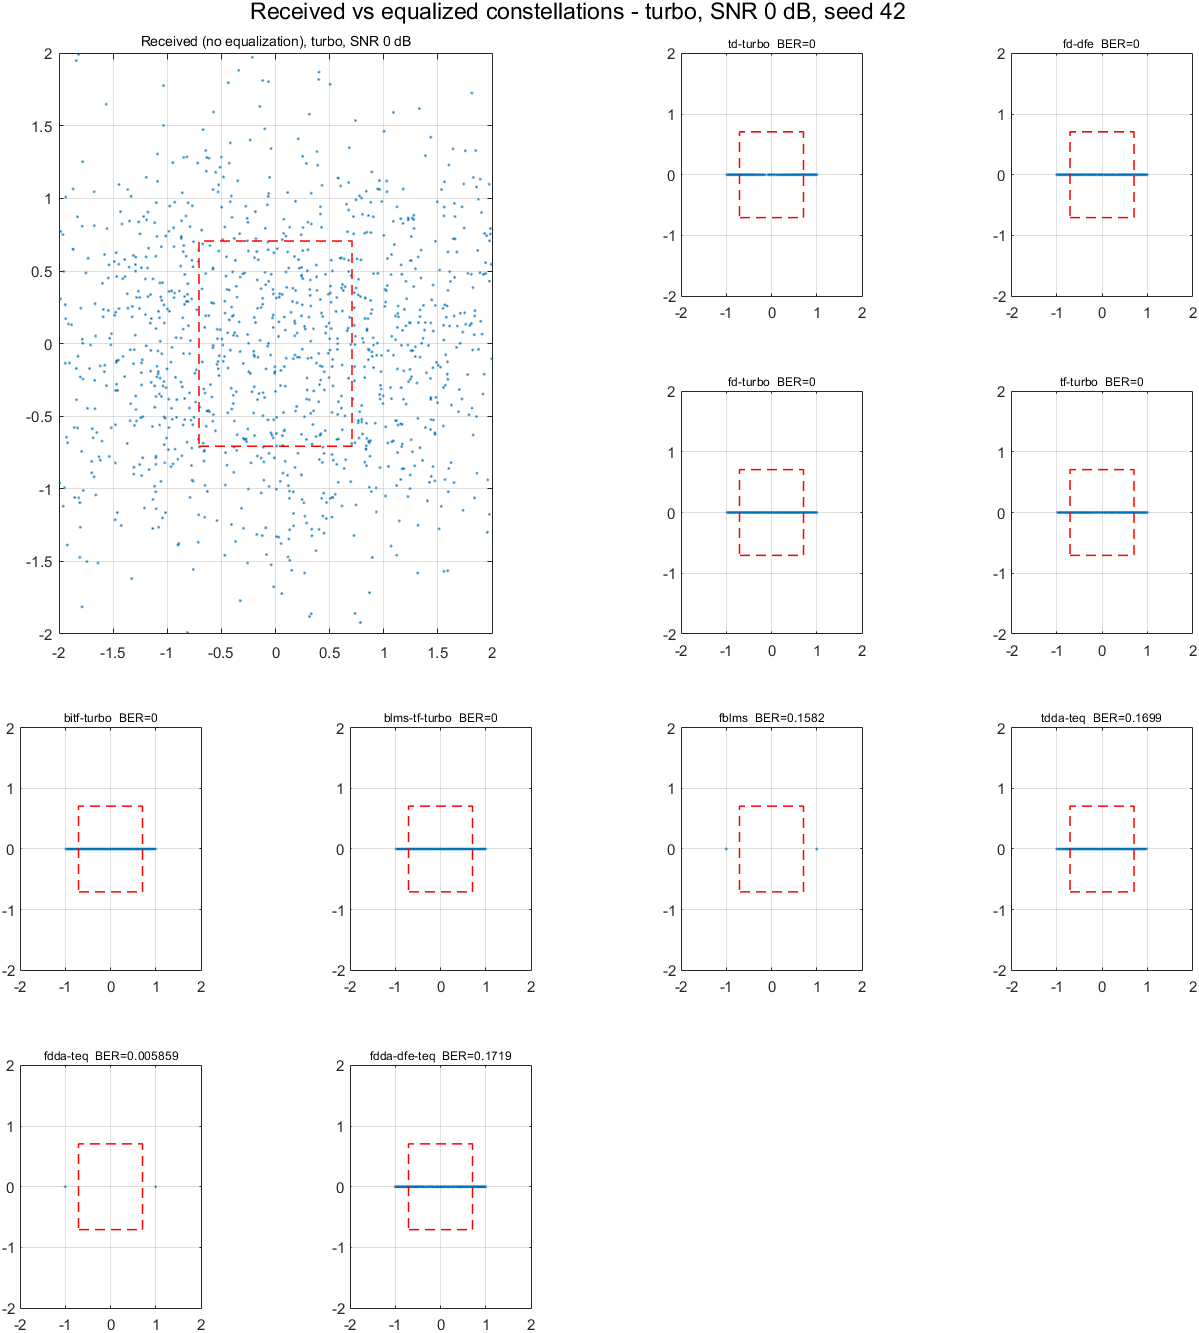
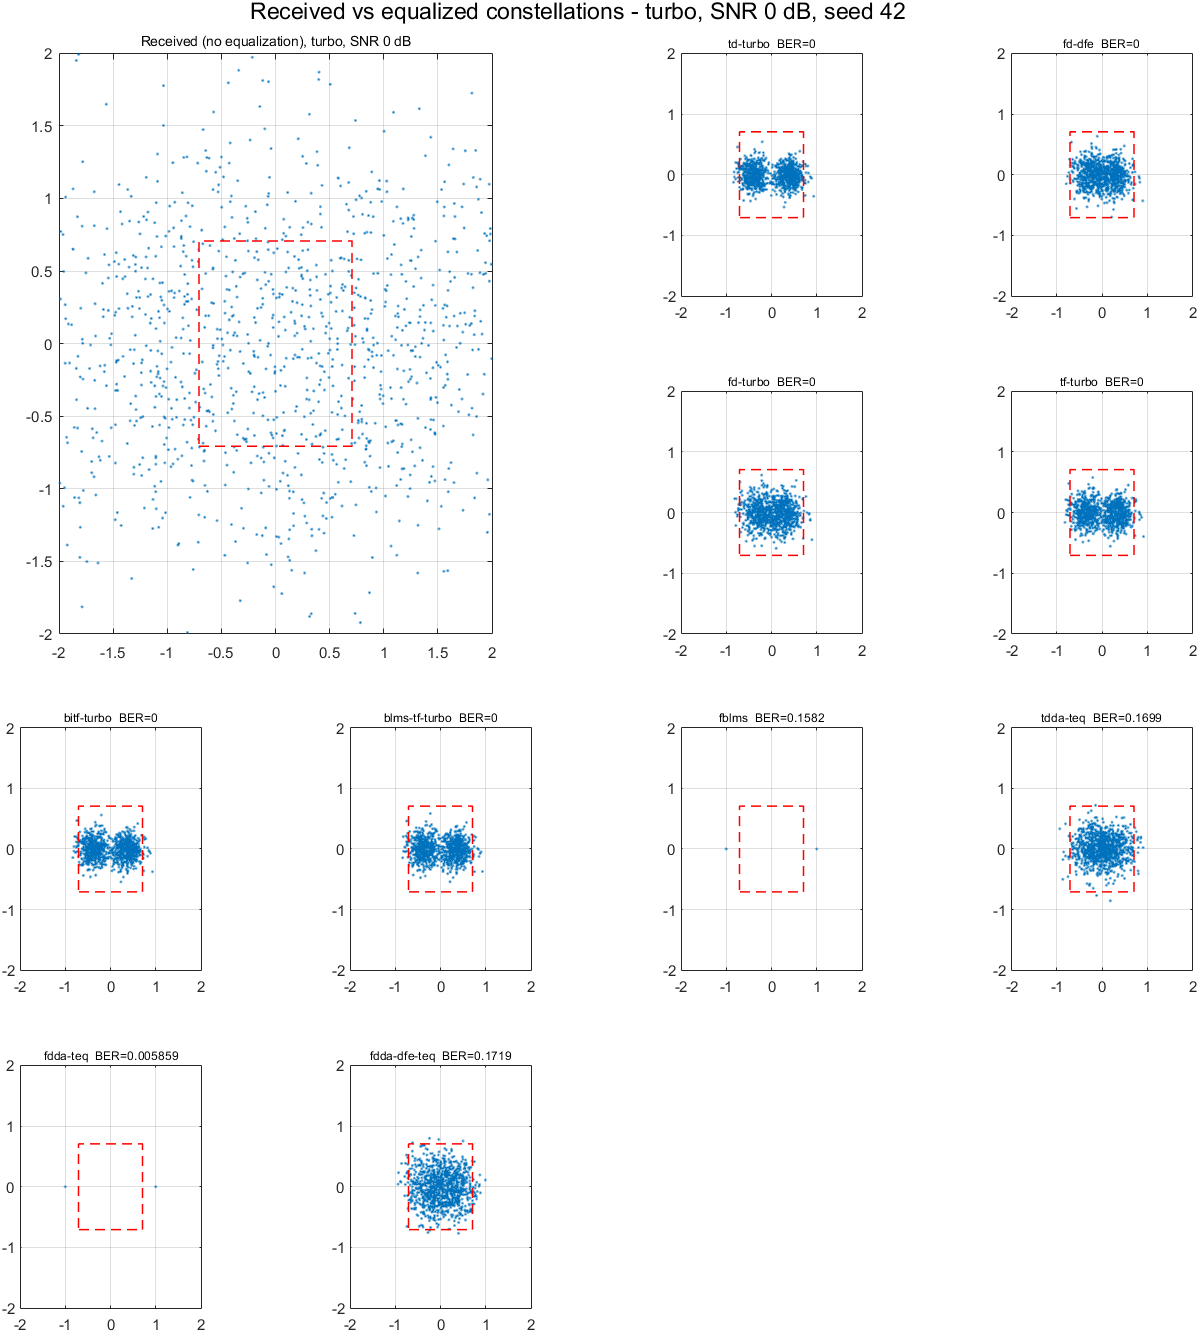
fix: turbo equalized constellations are 2D again
- The six turbo kernels now record the COMPLEX equalizer output of
  every iteration (trace.softEstimates, full frame); the comparison
  plot uses the data segment of the last iteration for the turbo
  scenario, so the BPSK constellation shows the real 2D two-cluster
  cloud instead of the collapsed horizontal line that came from the
  real-valued LLR (2*real(estimate)/nv).

Regression: 61/61 unit tests.

diff --git a/papers/engineering_simulation/plot_equalizer_outputs.m b/papers/engineering_simulation/plot_equalizer_outputs.m
@@ -108,13 +108,14 @@ for k = 1:nMethods
             out = result.outputs{k}(:).';
         elseif isHard(out)
             % Hard-decision estimates (turbo decoders report decisions):
-            % fall back to the decoder soft LLR of the last iteration
-            % when available so the soft constellation is visible.
+            % use the COMPLEX equalizer output of the last iteration
+            % (softEstimates, data segment) so the 2D constellation is
+            % visible instead of the real-valued LLR line.
             if strcmpi(scenario, "turbo") && isfield(result, "traces") && ...
                     numel(result.traces) >= k && ...
-                    isfield(result.traces{k}, "equalizerLlr")
-                llr = result.traces{k}.equalizerLlr(end, :);
-                out = tanh(llr / 2);
+                    isfield(result.traces{k}, "softEstimates")
+                est = result.traces{k}.softEstimates(end, :);
+                out = est(257:min(1280, numel(est)));
             end
         end
     else

diff --git a/papers/modules/+scfde/+equalizers/ch4_iterate_td_nlms_turbo.m b/papers/modules/+scfde/+equalizers/ch4_iterate_td_nlms_turbo.m
@@ -38,6 +38,7 @@ for iteration = 1:cfg.iterations
     curve(iteration) = mean(bits ~= frame.informationBits);
     trace = scfde.equalizers.ch4_save_trace(trace, iteration, equalizerLlr, decoderLlr, ...
         softSymbols, []);
+    trace.softEstimates(iteration, :) = estimate;
     trace.frequencyWeights(iteration, :) = weightSpectrum;
     trace.weightNmse(iteration) = scfde.equalizers.ch4_channel_nmse(weightSpectrum, referenceWeights);
     trace.errorPower(iteration) = mean(abs(residual).^2);

diff --git a/papers/modules/+scfde/+equalizers/ch4_iterate_fd_blms_turbo.m b/papers/modules/+scfde/+equalizers/ch4_iterate_fd_blms_turbo.m
@@ -30,6 +30,7 @@ for iteration = 1:cfg.iterations
     curve(iteration) = mean(bits ~= frame.informationBits);
     trace = scfde.equalizers.ch4_save_trace(trace, iteration, equalizerLlr, decoderLlr, ...
         softSymbols, []);
+    trace.softEstimates(iteration, :) = estimate;
     trace.frequencyWeights(iteration, :) = weights;
     trace.weightNmse(iteration) = scfde.equalizers.ch4_channel_nmse(weights, referenceWeights);
     trace.errorPower(iteration) = mean(abs(residual).^2);

diff --git a/papers/modules/+scfde/+equalizers/ch4_iterate_frequency_turbo.m b/papers/modules/+scfde/+equalizers/ch4_iterate_frequency_turbo.m
@@ -27,6 +27,7 @@ for iteration = 1:cfg.iterations
     curve(iteration) = mean(bits ~= frame.informationBits);
     trace = scfde.equalizers.ch4_save_trace(trace, iteration, equalizerLlr, decoderLlr, ...
         softSymbols, scfde.equalizers.ch4_channel_nmse(Hest, Hreference));
+    trace.softEstimates(iteration, :) = estimate;
 end
 trace.finalChannel = Hest;
 end

diff --git a/papers/modules/+scfde/+equalizers/ch4_iterate_time_frequency_turbo.m b/papers/modules/+scfde/+equalizers/ch4_iterate_time_frequency_turbo.m
@@ -44,6 +44,7 @@ for iteration = 1:cfg.iterations
     curve(iteration) = mean(bits ~= frame.informationBits);
     trace = scfde.equalizers.ch4_save_trace(trace, iteration, equalizerLlr, decoderLlr, ...
         softSymbols, scfde.equalizers.ch4_channel_nmse(Hest, Hreference));
+    trace.softEstimates(iteration, :) = estimate;
 end
 trace.finalChannel = Hest;
 end

diff --git a/papers/modules/+scfde/+equalizers/ch4_frequency_dfe_baseline.m b/papers/modules/+scfde/+equalizers/ch4_frequency_dfe_baseline.m
@@ -23,6 +23,7 @@ trace = scfde.equalizers.ch4_initialize_trace(cfg.iterations, N, []);
 for iteration = 1:cfg.iterations
     trace = scfde.equalizers.ch4_save_trace(trace, iteration, equalizerLlr, decoderLlr, ...
         softFrame, []);
+    trace.softEstimates(iteration, :) = estimate;
 end
 trace.finalChannel = H;
 end

diff --git a/papers/modules/+scfde/+equalizers/ch4_iterate_time_turbo.m b/papers/modules/+scfde/+equalizers/ch4_iterate_time_turbo.m
@@ -21,6 +21,7 @@ for iteration = 1:cfg.iterations
     curve(iteration) = mean(bits ~= frame.informationBits);
     trace = scfde.equalizers.ch4_save_trace(trace, iteration, equalizerLlr, decoderLlr, ...
         softSymbols, []);
+    trace.softEstimates(iteration, :) = estimate;
 end
 trace.finalChannel = [];
 end
